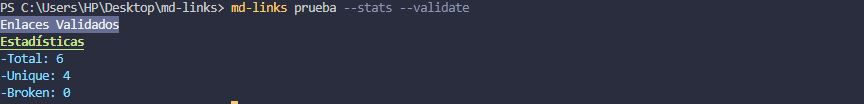
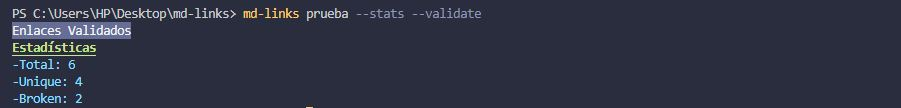
agrega imagen correcta readme

diff --git a/lib/function.js b/lib/function.js
@@ -102,7 +102,7 @@ export const functionStats = (links, options) => {
     };
 
     if (options === 'validate') {
-      const brokenLinks = links.filter((link) => link.ok === 'fail');
+      const brokenLinks = links.filter((link) => link.ok === '✖ fail');
       stats.broken = brokenLinks.length;
     }
 
